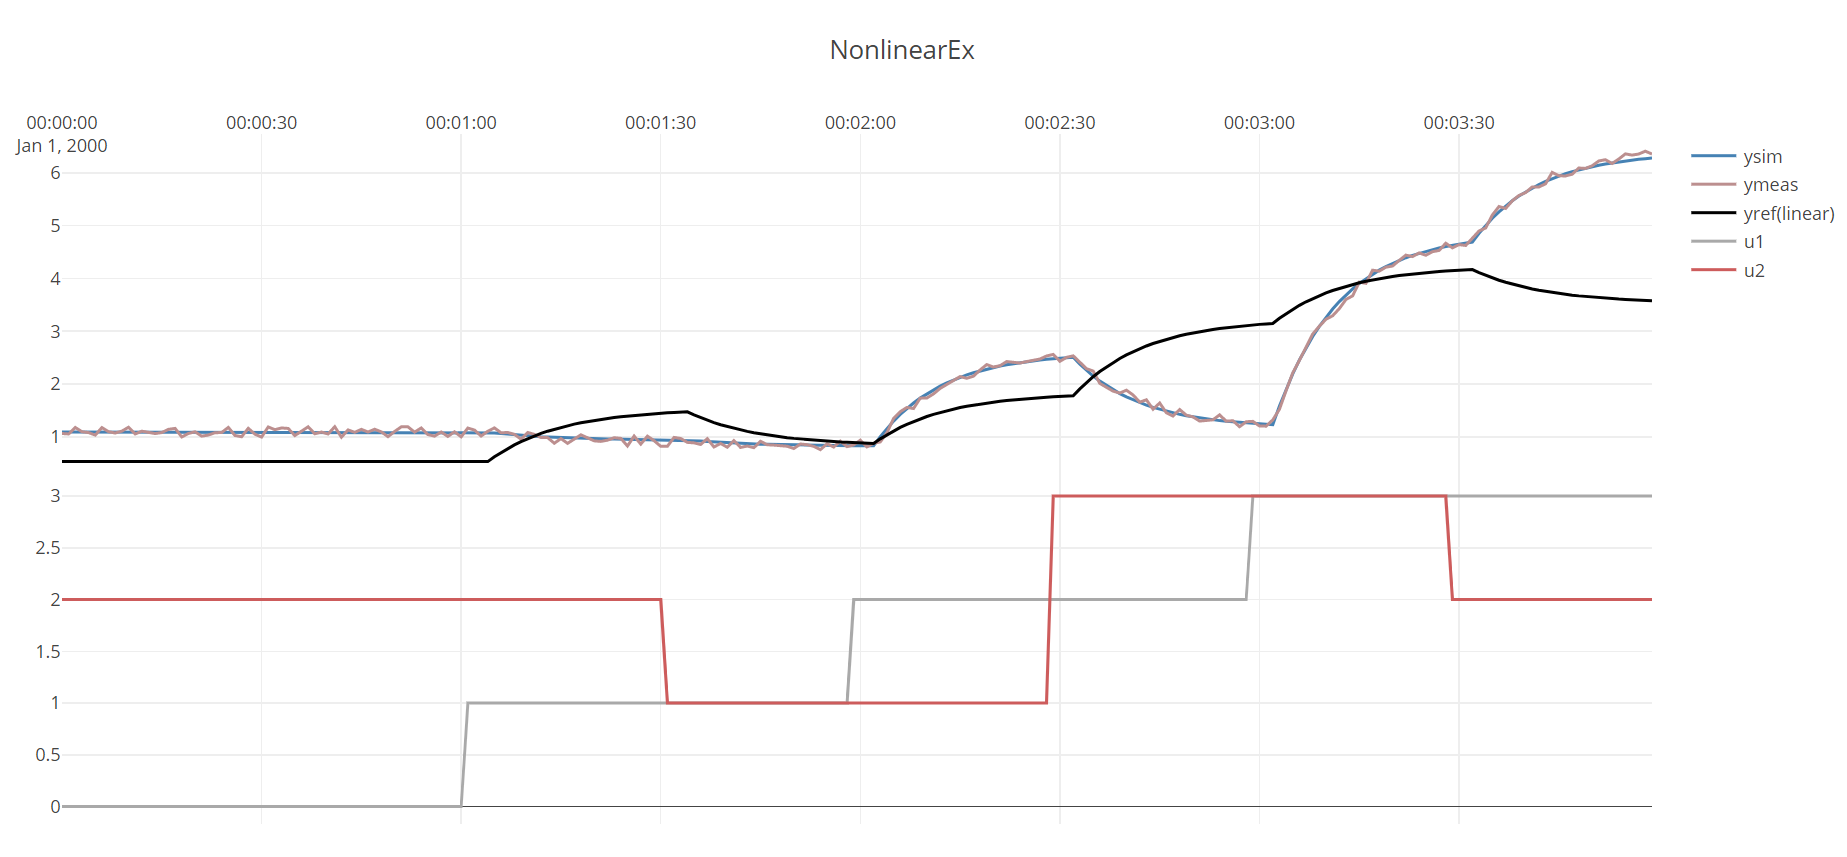
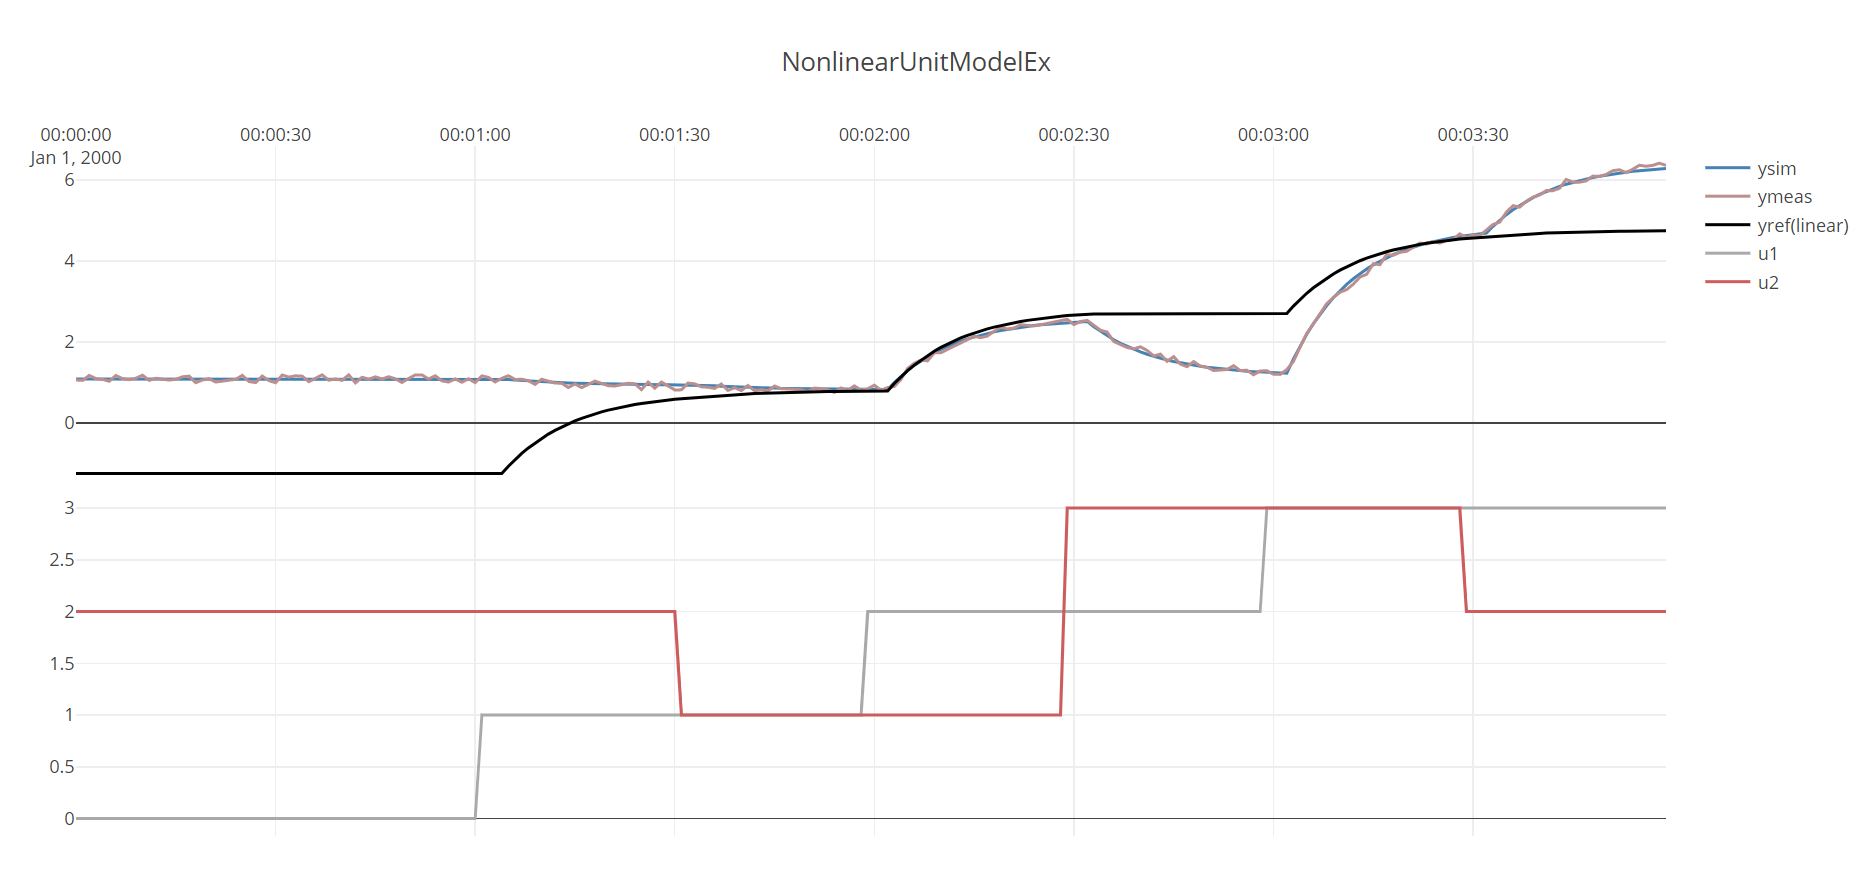
- improvements to nonlinear identification example

diff --git a/docs/articles/sysid_ex_nonlin.html b/docs/articles/sysid_ex_nonlin.html
@@ -78,20 +78,39 @@
           <div class="col-md-10">
             <article class="content wrap" id="_content" data-uid="">
 
+<p>This example shows how the <code>UnitIdentifier</code> can be used to identify a model that
+can include nonlinearities, time-delay and time-constant simultaneously.</p>
+<p>The code for this example:</p>
 <pre><code class="lang-csharp" name="Examples">public void NonlinearUnitModel()
 {
+    // constants of the designed 
     double timeConstant_s = 10;
     double timeDelay_s = 4;
-
     double timeBase_s = 1;
     double bias = 1;
     double noiseAmplitude = 0.1;
 
-    // create the input as a matrix
+    // create the input U as a matrix
     double[] u1 = TimeSeriesCreator.ThreeSteps(60, 120, 180, 240, 0, 1, 2, 3);
     double[] u2 = TimeSeriesCreator.ThreeSteps(90, 150, 210, 240, 2, 1, 3, 2);
     double[,] U = Array2D&lt;double&gt;.CreateFromList(new List&lt;double[]&gt; { u1, u2 });
 
+    // simulate a linear reference model for comparison
+    UnitParameters paramtersNoCurvature = new UnitParameters
+    {
+        WasAbleToIdentify = true,
+        TimeConstant_s = timeConstant_s,
+        TimeDelay_s = timeDelay_s,
+        LinearGains = new double[] { 2, -0.05 },
+        U0 = new double[] { 1.1, 1.1 },
+        Bias = bias
+    };
+    var refModel = new UnitModel(paramtersNoCurvature, timeBase_s, &quot;Reference&quot;);
+    var refSim  = new UnitSimulator(refModel);
+    var refData = new UnitDataSet(timeBase_s,U);
+    refSim.Simulate(ref refData);
+
+    // simulate the nonlinear model 
     UnitParameters designParameters = new UnitParameters
     {
         WasAbleToIdentify = true,
@@ -103,24 +122,6 @@
         UNorm = new double[] { 1, 1 },// set this to make results comparable
         Bias = bias
     };
-
-    UnitParameters paramtersNoCurvature = new UnitParameters
-    {
-        WasAbleToIdentify = true,
-        TimeConstant_s = timeConstant_s,
-        TimeDelay_s = timeDelay_s,
-        LinearGains = new double[] { 1, 0.7 },
-        U0 = new double[] { 1.1, 1.1 },
-        Bias = bias
-    };
-
-    // simulate a linear reference model for comparison
-    var refModel = new UnitModel(paramtersNoCurvature, timeBase_s, &quot;Reference&quot;);
-    var refSim  = new UnitSimulator(refModel);
-    var refData = new UnitDataSet(timeBase_s,U);
-    refSim.Simulate(ref refData);
-
-    // simulate the nonlinear model 
     var trueModel = new UnitModel(designParameters, timeBase_s, &quot;NonlinearModel1&quot;);
     var sim = new UnitSimulator(trueModel);
     var idDataSet = new UnitDataSet(timeBase_s,U);
@@ -143,7 +144,11 @@
 }
 
 </code></pre>
-<p>The resulting figure</p>
+<p>It can be hard to see with the naked eye that a combination of inputs (U) and output (y)
+are related non-linearly to another. For this reason, a reference linear model is also
+simulated and plotted for comparison purposes. The significant difference between
+<code>ymeas</code> and <code>yref(linear)</code> in the below plot illustrate that the process is significantly non-linear.</p>
+<p>The resulting figure, containing the dataset, the fitted model and the reference linear model.</p>
 <p><img src="images/sysid_ex_nonlin1.png" alt="Example 6"></p>
 <p>The output of <code>idModel.ToString()</code> gives details on the model:</p>
 <pre><code>DefaultProcessModel
@@ -164,6 +169,30 @@ ProcessGains(at u0) :
  -&gt; uNorm : [1;1]
 Bias : 0,997 ± 1,3
 </code></pre>
+<p>Results:</p>
+<ul>
+<li>the estimated bounds of the estimated time-constant contains the actual time-constant(10),</li>
+<li>the estimated time delay matches the actual value (4),</li>
+<li>the estimated bound of linear gains contain the actual values <code>[1,0.7]</code></li>
+<li>the estimated bound of curvatures contain the actual values <code>[1,-0.8]</code></li>
+<li>the estimated bias is close to the actual value (1).</li>
+</ul>
+<p>Overall, this is example shows a successful use of identification method. Under the hood
+<code>UnitIdenfier</code> has <em>automatically</em> tested and evaluated a number of different linear/nonlinear and static/dynamic
+combinations before deciding on the returned nonlinear, dynamic model structure.
+<strong>The major intended design benefit of using <code>UnitIdentifier</code> is that the user is spared
+the details of this low-level model selection process.</strong></p>
+<p>Notice that this dataset had <em>three</em> step changes for each of the two inputs, to ensure
+that the curvatures were identifiable. In cases with less excitation in the dataset,
+identification could have returned a local linear model, even though the underlying process
+was nonlinear. This is an unavoidable consequence of lack of excitation in the dataset, that one
+has to be aware of.</p>
+<p>The user did <em>not</em> need to <em>specify</em> if the model should be linear or nonlinear, dynamic or static
+or if the model should have time-delay or not. <code>UnitIdentifier</code> does need a
+<code>UnitDataSet</code> as input, thus the inputs(<code>U</code>) and output(<code>y</code>) need to be specified.
+<em>Thus <code>UnitIdentifier</code> is not be able to take a general <code>TimeSeriesDataSet</code> that contain
+any number of un-ordered time-series and produce a general <code>PlantSimulator</code>.
+This more challenging task will be a topic for later examples.</em></p>
 </article>
           </div>
           

diff --git a/docs/readme.html b/docs/readme.html
@@ -80,7 +80,7 @@
 <li>dynamic simulation, and</li>
 <li>advanced industrial PID-control.</li>
 </ul>
-<p>The library can be used from C#, Matlab or Python.</p>
+<p>The library can be used from C# or any other .NET language, Matlab or Python. The target framework is <i>.NET Standard 2.0.</i></p>
 <h2 id="documentation">Documentation:</h2>
 <p>🔴 <strong><a href="https://equinor.github.io/TimeSeriesAnalysis">TimeSeriesAnalysis documentation</a></strong> 🔴</p>
 <p>🔴 <strong><a href="https://equinor.github.io/TimeSeriesAnalysis/api/TimeSeriesAnalysis.html">TimeSeriesAnalysis API documentation</a></strong> 🔴</p>

diff --git a/Examples/SystemIdent.cs b/Examples/SystemIdent.cs
@@ -26,18 +26,34 @@ namespace TimeSeriesAnalysis._Examples
         #region ex_NONLINEAR_UNIT_MODEL
         public void NonlinearUnitModel()
         {
+            // constants of the designed 
             double timeConstant_s = 10;
             double timeDelay_s = 4;
-
             double timeBase_s = 1;
             double bias = 1;
             double noiseAmplitude = 0.1;
 
-            // create the input as a matrix
+            // create the input U as a matrix
             double[] u1 = TimeSeriesCreator.ThreeSteps(60, 120, 180, 240, 0, 1, 2, 3);
             double[] u2 = TimeSeriesCreator.ThreeSteps(90, 150, 210, 240, 2, 1, 3, 2);
             double[,] U = Array2D<double>.CreateFromList(new List<double[]> { u1, u2 });
 
+            // simulate a linear reference model for comparison
+            UnitParameters paramtersNoCurvature = new UnitParameters
+            {
+                WasAbleToIdentify = true,
+                TimeConstant_s = timeConstant_s,
+                TimeDelay_s = timeDelay_s,
+                LinearGains = new double[] { 2, -0.05 },
+                U0 = new double[] { 1.1, 1.1 },
+                Bias = bias
+            };
+            var refModel = new UnitModel(paramtersNoCurvature, timeBase_s, "Reference");
+            var refSim  = new UnitSimulator(refModel);
+            var refData = new UnitDataSet(timeBase_s,U);
+            refSim.Simulate(ref refData);
+
+            // simulate the nonlinear model 
             UnitParameters designParameters = new UnitParameters
             {
                 WasAbleToIdentify = true,
@@ -49,24 +65,6 @@ namespace TimeSeriesAnalysis._Examples
                 UNorm = new double[] { 1, 1 },// set this to make results comparable
                 Bias = bias
             };
-
-            UnitParameters paramtersNoCurvature = new UnitParameters
-            {
-                WasAbleToIdentify = true,
-                TimeConstant_s = timeConstant_s,
-                TimeDelay_s = timeDelay_s,
-                LinearGains = new double[] { 1, 0.7 },
-                U0 = new double[] { 1.1, 1.1 },
-                Bias = bias
-            };
-
-            // simulate a linear reference model for comparison
-            var refModel = new UnitModel(paramtersNoCurvature, timeBase_s, "Reference");
-            var refSim  = new UnitSimulator(refModel);
-            var refData = new UnitDataSet(timeBase_s,U);
-            refSim.Simulate(ref refData);
-
-            // simulate the nonlinear model 
             var trueModel = new UnitModel(designParameters, timeBase_s, "NonlinearModel1");
             var sim = new UnitSimulator(trueModel);
             var idDataSet = new UnitDataSet(timeBase_s,U);

diff --git a/articles/sysid_ex_nonlin.md b/articles/sysid_ex_nonlin.md
@@ -1,12 +1,18 @@
 
+This example shows how the ``UnitIdentifier`` can be used to identify a model that
+can include nonlinearities, time-delay and time-constant simultaneously.
 
-
+The code for this example:
 [!code-csharp[Examples](../Examples/SystemIdent.cs?name=ex_NONLINEAR_UNIT_MODEL)]
 
-The resulting figure
+It can be hard to see with the naked eye that a combination of inputs (U) and output (y) 
+are related non-linearly to another. For this reason, a reference linear model is also 
+simulated and plotted for comparison purposes. The significant difference between 
+``ymeas`` and ``yref(linear)`` in the below plot illustrate that the process is significantly non-linear. 
+
+The resulting figure, containing the dataset, the fitted model and the reference linear model. 
 
 ![Example 6](images/sysid_ex_nonlin1.png)
-
 
 The output of ``idModel.ToString()`` gives details on the model:
 ```
@@ -28,4 +34,28 @@ ProcessGains(at u0) :
  -> uNorm : [1;1]
 Bias : 0,997 ± 1,3
 ```
+Results: 
+- the estimated bounds of the estimated time-constant contains the actual time-constant(10), 
+- the estimated time delay matches the actual value (4),
+- the estimated bound of linear gains contain the actual values ``[1,0.7]``
+- the estimated bound of curvatures contain the actual values ``[1,-0.8]``
+- the estimated bias is close to the actual value (1).
 
+Overall, this is example shows a successful use of identification method. Under the hood 
+``UnitIdenfier`` has *automatically* tested and evaluated a number of different linear/nonlinear and static/dynamic 
+combinations before deciding on the returned nonlinear, dynamic model structure. 
+**The major intended design benefit of using ``UnitIdentifier`` is that the user is spared
+the details of this low-level model selection process.**
+
+Notice that this dataset had *three* step changes for each of the two inputs, to ensure
+that the curvatures were identifiable. In cases with less excitation in the dataset, 
+identification could have returned a local linear model, even though the underlying process
+was nonlinear. This is an unavoidable consequence of lack of excitation in the dataset, that one
+has to be aware of.  
+
+The user did *not* need to *specify* if the model should be linear or nonlinear, dynamic or static
+ or if the model should have time-delay or not. ``UnitIdentifier`` does need a 
+ ``UnitDataSet`` as input, thus the inputs(``U``) and output(``y``) need to be specified.
+*Thus ``UnitIdentifier`` is not be able to take a general ``TimeSeriesDataSet`` that contain 
+any number of un-ordered time-series and produce a general ``PlantSimulator``. 
+This more challenging task will be a topic for later examples.* 
